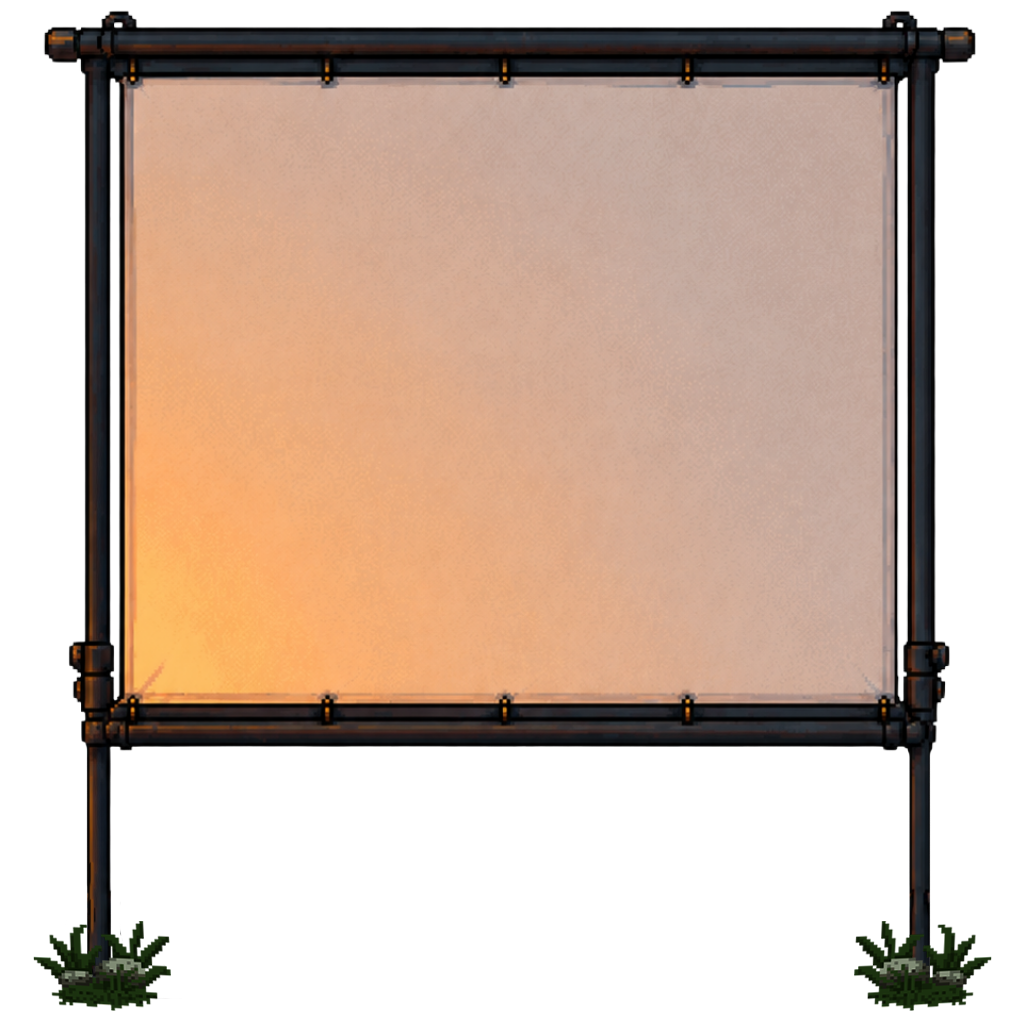
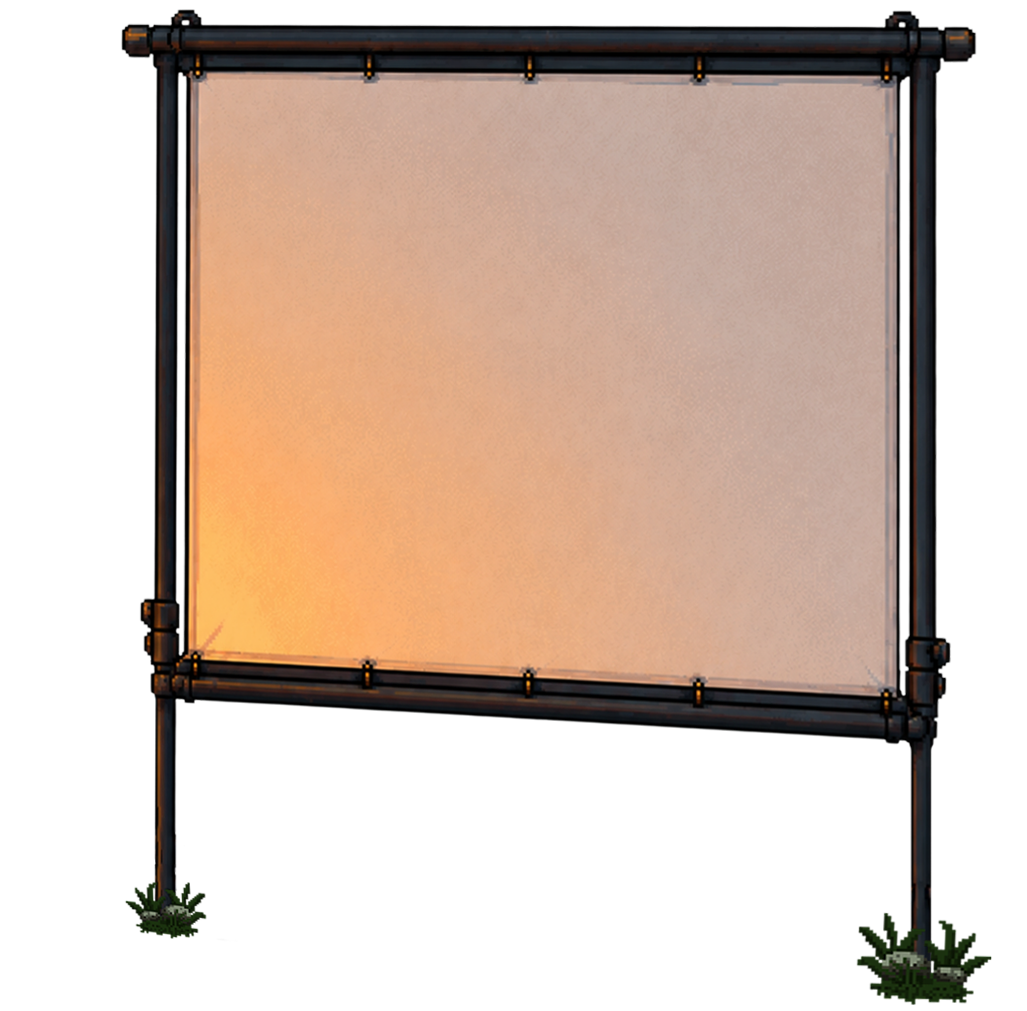
Refine projection screen perspective

Changed region(s): [[0.0312, 0.0, 0.9659, 1.0]]

diff --git a/style.css b/style.css
@@ -139,10 +139,10 @@ body {
 
 .right-scene-curtain {
   position: absolute;
-  top: 68%;
-  left: 61%;
+  top: 54%;
+  left: 78%;
   z-index: 9;
-  width: min(28vw, 360px);
+  width: min(44vw, 620px);
   height: auto;
   pointer-events: none;
   transform: translate(-50%, -50%);
@@ -161,10 +161,10 @@ body {
 
 .right-scene-projector {
   position: absolute;
-  top: 84%;
-  left: 51%;
-  z-index: 10;
-  width: min(10vw, 140px);
+  top: 76%;
+  left: 70%;
+  z-index: 12;
+  width: min(13vw, 190px);
   height: auto;
   image-rendering: auto;
   pointer-events: none;
@@ -2023,19 +2023,21 @@ body.has-entered .write-button {
 
 .yuva-tv {
   position: absolute;
-  top: 64.6%;
-  left: 61%;
+  top: 46%;
+  left: 78%;
   z-index: 10;
-  width: min(20.5vw, 278px);
+  width: min(30vw, 455px);
   color: #fff4b8;
   font-family: "Jersey 15", "Pixelify Sans", "Courier New", monospace;
   transform: translate(-50%, -50%);
+  transform-origin: center;
 }
 
 .yuva-tv-frame {
   position: relative;
   background: transparent;
   padding: 0;
+  perspective: 720px;
 }
 
 .yuva-tv-head {
@@ -2064,13 +2066,32 @@ body.has-entered .write-button {
   border-radius: 0;
   aspect-ratio: 16 / 9;
   background:
-    radial-gradient(circle at 50% 50%, rgba(255, 238, 166, 0.16), rgba(46, 31, 67, 0.05) 62%, transparent 100%),
-    rgba(23, 18, 34, 0.18);
+    radial-gradient(circle at 58% 48%, rgba(255, 238, 166, 0.14), rgba(46, 31, 67, 0.035) 54%, transparent 78%);
   box-shadow:
-    0 0 24px rgba(255, 221, 111, 0.18),
-    inset 0 0 18px rgba(255, 244, 184, 0.08);
-  clip-path: inset(1.5% 2.5% 2.5% 2.5%);
-  transform: perspective(480px) rotateX(0.4deg);
+    -8px 6px 34px rgba(255, 221, 111, 0.11),
+    0 0 46px rgba(255, 221, 111, 0.13),
+    inset 16px 0 32px rgba(20, 11, 31, 0.22),
+    inset -12px 0 28px rgba(255, 244, 184, 0.12);
+  clip-path: polygon(6% 7%, 99% 5%, 104% 98%, 5% 92%);
+  filter: blur(0.14px) saturate(0.86);
+  -webkit-mask-image: radial-gradient(ellipse at 55% 50%, #000 0 46%, rgba(0, 0, 0, 0.62) 68%, transparent 98%);
+  mask-image: radial-gradient(ellipse at 55% 50%, #000 0 46%, rgba(0, 0, 0, 0.62) 68%, transparent 98%);
+  transform: skewY(-0.9deg) rotate(2deg);
+  transform-origin: 100% 50%;
+}
+
+.yuva-tv-screen::before {
+  position: absolute;
+  inset: -1px;
+  z-index: 5;
+  background:
+    repeating-linear-gradient(0deg, rgba(255, 247, 205, 0.05) 0 1px, transparent 1px 3px),
+    repeating-linear-gradient(90deg, rgba(70, 42, 26, 0.055) 0 1px, transparent 1px 7px),
+    radial-gradient(ellipse at 50% 45%, transparent 0 52%, rgba(238, 195, 106, 0.08) 76%, rgba(23, 12, 28, 0.18) 100%);
+  content: "";
+  mix-blend-mode: soft-light;
+  opacity: 0.24;
+  pointer-events: none;
 }
 
 .yuva-tv-screen::after {
@@ -2078,11 +2099,12 @@ body.has-entered .write-button {
   inset: 0;
   z-index: 6;
   background:
-    repeating-linear-gradient(0deg, rgba(255, 248, 196, 0.045) 0 1px, transparent 1px 4px),
-    repeating-linear-gradient(90deg, rgba(255, 248, 196, 0.025) 0 1px, transparent 1px 5px),
-    radial-gradient(circle at 50% 40%, rgba(255, 229, 130, 0.12), transparent 68%);
+    linear-gradient(90deg, rgba(29, 16, 32, 0.22), transparent 18%, transparent 78%, rgba(255, 225, 145, 0.12)),
+    linear-gradient(0deg, rgba(23, 12, 28, 0.18), transparent 18%, transparent 82%, rgba(23, 12, 28, 0.16)),
+    radial-gradient(ellipse at 52% 50%, transparent 0 58%, rgba(255, 222, 133, 0.11) 76%, rgba(17, 8, 25, 0.28) 100%),
+    radial-gradient(circle at 55% 46%, rgba(255, 224, 136, 0.1), transparent 67%);
   content: "";
-  opacity: 0.52;
+  opacity: 0.22;
   pointer-events: none;
 }
 
@@ -2101,14 +2123,16 @@ body.has-entered .write-button {
     linear-gradient(rgba(255, 236, 174, 0.08), rgba(255, 236, 174, 0.08)),
     url("https://i.ytimg.com/vi/V0Oolnx5mv4/hqdefault.jpg") center / cover no-repeat;
   opacity: 0.82;
-  filter: saturate(0.78) brightness(1.08) blur(0.18px);
-  mix-blend-mode: lighten;
+  filter: sepia(0.04) saturate(0.84) contrast(1.12) brightness(1.03) blur(0.22px);
+  mix-blend-mode: normal;
+  -webkit-mask-image: radial-gradient(ellipse at 55% 50%, #000 0 62%, rgba(0, 0, 0, 0.82) 78%, transparent 99%);
+  mask-image: radial-gradient(ellipse at 55% 50%, #000 0 62%, rgba(0, 0, 0, 0.82) 78%, transparent 99%);
   cursor: pointer;
 }
 
 #yuvaTvPlayer iframe {
   border: 0;
-  transform: scale(1.035);
+  transform: scale(1.08);
   transform-origin: center;
   pointer-events: none;
 }
@@ -3471,7 +3495,15 @@ dialog::backdrop {
   }
 
   .right-scene-curtain {
-    width: min(42vw, 275px);
+    top: 54%;
+    left: 78%;
+    width: min(64vw, 390px);
+  }
+
+  .right-scene-projector {
+    top: 76%;
+    left: 70%;
+    width: min(22vw, 135px);
   }
 
   .right-scene-curtain-cat {
@@ -3853,9 +3885,15 @@ dialog::backdrop {
   }
 
   .right-scene-curtain {
-    top: 68%;
-    left: 61%;
-    width: min(40vw, 220px);
+    top: 54%;
+    left: 78%;
+    width: min(60vw, 330px);
+  }
+
+  .right-scene-projector {
+    top: 76%;
+    left: 70%;
+    width: min(20vw, 108px);
   }
 
   .right-scene-curtain-cat {
@@ -3884,11 +3922,20 @@ dialog::backdrop {
 
   .yuva-tv {
     position: absolute;
-    top: 65%;
-    left: 61%;
+    top: 46%;
+    left: 78%;
     z-index: 10;
-    width: min(34vw, 188px);
+    width: min(46vw, 265px);
     transform: translate(-50%, -50%);
+  }
+
+  .yuva-tv-frame {
+    perspective: 560px;
+  }
+
+  .yuva-tv-screen {
+    clip-path: polygon(6% 7%, 99% 5%, 104% 98%, 5% 92%);
+    transform: skewY(-0.9deg) rotate(2deg);
   }
 
   .yuva-tv-frame {

diff --git a/index.html b/index.html
@@ -15,7 +15,7 @@
       href="https://fonts.googleapis.com/css2?family=Jersey+15&family=Pixelify+Sans:wght@500;600;700&display=swap"
       rel="stylesheet"
     />
-    <link rel="stylesheet" href="style.css?v=20260527-scene-dialogue" />
+    <link rel="stylesheet" href="style.css?v=20260528-projection-screen" />
   </head>
   <body>
     <div class="sliding-world" id="slidingWorld">
@@ -56,7 +56,7 @@
       </section>
 
       <section class="world-scene world-scene--right" aria-label="YUVA sağ sahne">
-        <img class="right-scene-curtain" src="images/curtain.png" alt="" aria-hidden="true" draggable="false" />
+        <img class="right-scene-curtain" src="images/curtain.png?v=20260528-projection-screen" alt="" aria-hidden="true" draggable="false" />
         <img class="right-scene-projector" src="images/projector.png?v=20260522-projector" alt="" aria-hidden="true" draggable="false" />
         <section class="yuva-tv" id="yuvaTv" aria-label="YUVA TV">
           <div class="yuva-tv-frame">